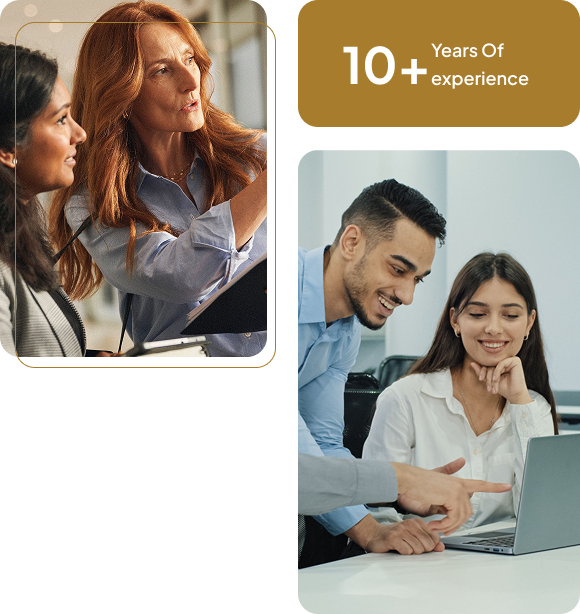
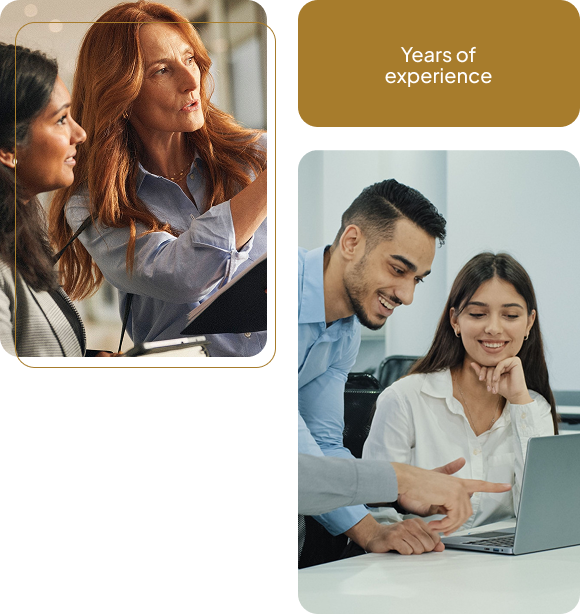
small changes

Changed region(s): [[0.5897, 0.0619, 0.931, 0.1547]]

diff --git a/frontend/src/components/SecondPart.jsx b/frontend/src/components/SecondPart.jsx
@@ -56,7 +56,8 @@ const aboutCollageImages = [
     key: "experience",
     src: "/abtDown.png",
     alt: "10 plus years of experience badge",
-    className: "left-[7.6%] top-[59.2%] w-[29.9%] rounded-[24px]",
+    className:
+      "left-[7.6%] top-[calc(59.2%+12px)] w-[29.9%] rounded-[24px] sm:top-[59.2%]",
     move: "translate3d(0, 120%, 0)",
     delay: 125,
   },
@@ -113,18 +114,13 @@ function SecondPart() {
                 src={image.src}
                 alt={image.alt}
                 aria-hidden={image.alt ? undefined : "true"}
-                className={`absolute h-auto transform-gpu ${image.className}`}
+                className={`about-collage-image absolute h-auto ${image.className}`}
                 style={{
-                  transform: isAboutCollageHovered
+                  "--collage-transform": isAboutCollageHovered
                     ? image.move
                     : "translate3d(0, 0, 0)",
-                  opacity: isAboutCollageHovered ? 0 : 1,
-                  willChange: "transform, opacity",
-                  transitionProperty: "transform, opacity",
-                  transitionDuration: "760ms, 460ms",
-                  transitionTimingFunction:
-                    "cubic-bezier(0.16, 1, 0.3, 1), ease-out",
-                  transitionDelay: isAboutCollageHovered
+                  "--collage-opacity": isAboutCollageHovered ? 0 : 1,
+                  "--collage-delay": isAboutCollageHovered
                     ? `${image.delay}ms, ${image.delay + 140}ms`
                     : "0ms, 0ms",
                 }}

diff --git a/frontend/src/index.css b/frontend/src/index.css
@@ -41,6 +41,18 @@ a {
   animation: avac-marquee 30s linear infinite;
 }
 
+@media (min-width: 40rem) {
+  .about-collage-image {
+    transform: var(--collage-transform);
+    opacity: var(--collage-opacity);
+    will-change: transform, opacity;
+    transition-property: transform, opacity;
+    transition-duration: 760ms, 460ms;
+    transition-timing-function: cubic-bezier(0.16, 1, 0.3, 1), ease-out;
+    transition-delay: var(--collage-delay);
+  }
+}
+
 @keyframes avac-country-roll {
   from {
     transform: translateX(0);
